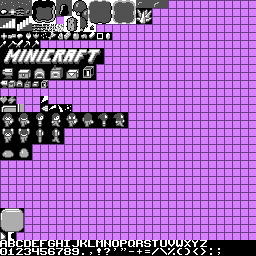
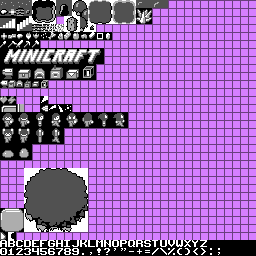
feat: giant tree render

Changed region(s): [[0.0938, 0.6562, 0.3438, 0.9062]]

diff --git a/client/SpriteTestScene.ts b/client/SpriteTestScene.ts
@@ -93,6 +93,18 @@ export default class SpriteTestScene extends Scene {
 
   render(time: GameTime) {
     clear(PALETTE.get(1)[0]);
+
+    // Render a giant tree.
+    const grassColor = 141;
+    const col = PALETTE.get(10, 30, 151, grassColor);
+    const barkCol1 = PALETTE.get(10, 30, 430, grassColor);
+    const barkCol2 = PALETTE.get(10, 30, 320, grassColor);
+    const colors = PALETTE.get(10, 30, 320, grassColor);
+    for (let j = 3, x = 150; j <= 10; j++, x += 8) {
+      for (let k = 21, y = 150; k <= 28; k++, y += 8) {
+        this.tileset.render(j + k * this.tileset.tilesPerRow, x, y, colors);
+      }
+    }
     super.render(time);
   }
 
